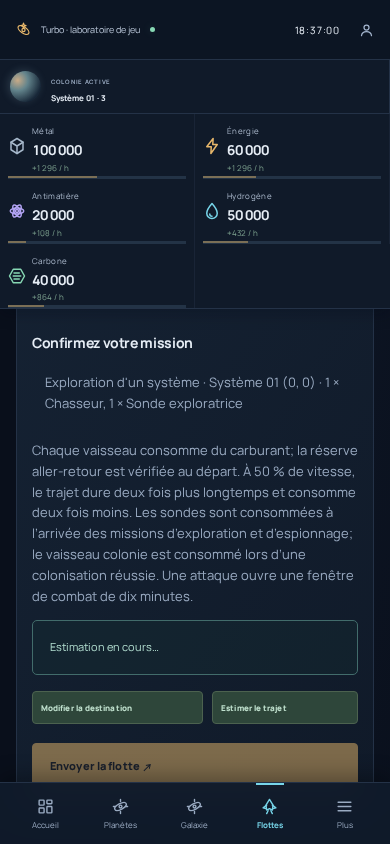
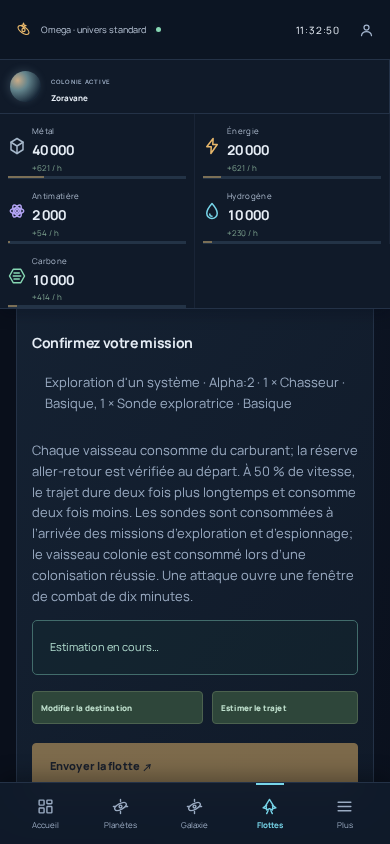
fix(ui): guard dispatch during fleet estimates

diff --git a/assets/controllers/fleet_preview_controller.js b/assets/controllers/fleet_preview_controller.js
@@ -38,6 +38,9 @@ export default class extends Controller {
             this.resultTarget.textContent = 'Estimation en cours…';
             this.resultTarget.classList.remove('error');
         }
+        if (event && this.submitButton) {
+            this.submitButton.disabled = true;
+        }
         this.abort?.abort();
         this.abort = new AbortController();
 
